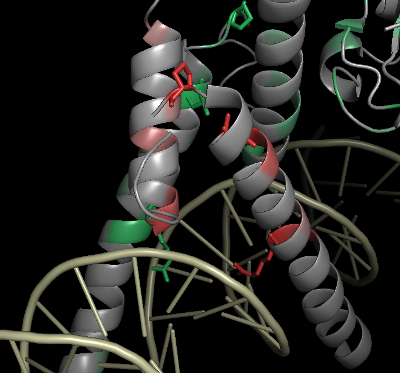
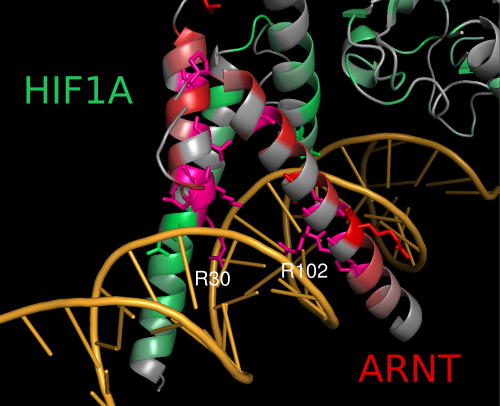
output script instead of recoding

diff --git a/pdb_site_identity.py b/pdb_site_identity.py
@@ -2,7 +2,7 @@
 #
 # pdb_site_identity.py v1 2017-07-25
 
-'''pdb_site_identity.py  last modified 2018-04-02
+'''pdb_site_identity.py  last modified 2018-09-12
 
 pdb_site_identity.py -a mox_all.aln -s DOPO_HUMAN -p 4zel.pdb > 4zel_w_scores.pdb
 
@@ -28,7 +28,7 @@ disordered or cleaved, the sequence still must start with residue 1
 import sys
 import time
 import argparse
-from collections import Counter
+from collections import Counter,defaultdict
 from numpy import log
 from Bio import AlignIO
 
@@ -134,6 +134,25 @@ def get_alignment_identity(alignmentlist, alignformat, targetidlist, gapcutoff):
 		identindex_dict[target_seqid] = index_to_identity
 	return identindex_dict
 
+def get_chains_only(defaultchain, seqidlist, pdbfile):
+	'''read PDB file and return a dict where key is chain and value is sequence ID'''
+	keepchains = {} # dict where key is chain and value is seqid
+	print >> sys.stderr, "# Reading chain from PDB {}".format(pdbfile)
+	for line in open(pdbfile,'r'):
+		record = line[0:6].strip()
+		# get relevant chains that match the sequence, in case of hetero multimers
+		if record=="DBREF":
+			defaultchain = False
+			proteinid = line[42:56].strip()
+			for seqid in seqidlist:
+				if seqid.find(proteinid)>-1:
+					chaintarget = line[12]
+					print >> sys.stderr, "### keeping chain {} for sequence {}".format( chaintarget, proteinid )
+					keepchains[chaintarget] = proteinid
+	if defaultchain: # meaning nothing was found, use default and single sequence
+		keepchains[defaultchain] = seqidlist[0]
+	return keepchains
+
 def rewrite_pdb(pdbfile, seqidlist, scoredict, wayout, forcerecode):
 	print >> sys.stderr, "# Reading PDB from {}".format(pdbfile)
 	atomcounter = 0
@@ -196,6 +215,64 @@ def rewrite_pdb(pdbfile, seqidlist, scoredict, wayout, forcerecode):
 	else:
 		print >> sys.stderr, "# NO CHAINS FOUND MATCHING SEQ ID {}, CHECK NAME {}".format( seqid, proteinid )
 
+def make_output_script(scoredict, keepchains, colorscript, basecolor="red"):
+	'''from the identity calculations, print a script for PyMOL'''
+	colors = {} # key is colorscheme name, value is list of colors
+	colors["red"] = [ [0.63,0.63,0.63] , [0.73,0.55,0.55] , [0.75,0.47,0.47], 
+				   [0.77,0.38,0.38] , [0.79,0.29,0.29] , [0.82,0.21,0.21], 
+				   [0.84,0.13,0.13]    , [0.88,0,0]     , [1,0,0.55] ]
+	colors["green"] = [ [0.63,0.63,0.63] , [0.50,0.68,0.56] , [0.42,0.71,0.53], 
+				   [0.35,0.74,0.49] , [0.26,0.77,0.44] , [0.19,0.80,0.41], 
+				   [0.12,0.83,0.37] , [0.01,0.87,0.31] , [1,0,0.55] ]
+	colors["blue"] = [ [0.63,0.63,0.63] , [0.50,0.58,0.68] , [0.42,0.55,0.71], 
+				   [0.35,0.52,0.73] , [0.28,0.49,0.76] , [0.20,0.46,0.80], 
+				   [0.12,0.43,0.83] , [0.00,0.38,0.87] , [1,0,0.55] ]
+	colors["yellow"] = [ [0.63,0.63,0.63] , [0.66,0.67,0.51] , [0.68,0.71,0.43], 
+				   [0.70,0.73,0.36] , [0.72,0.76,0.28] , [0.74,0.80,0.20], 
+				   [0.76,0.83,0.12] , [0.79,0.87,0.00] , [1,0,0.55] ]
+	insuf_color = [0.75, 0.75, 0.58]
+
+	binvalues = [0.0, 50.0 ,60.0 ,70.0 ,80.0 ,90.0 ,95.0 ,98.0 ,100, 101]
+
+	print >> sys.stderr, "# Generating PyMOL script {}".format(colorscript)
+	# begin printing commands for PyMOL script
+	with open(colorscript, 'w') as cs:
+		print >> cs, "hide everything"
+		#print >> wayout, "bg white"
+		print >> cs, "show cartoon"
+		print >> cs, "set_color colordefault, [{}]".format( ",".join(map(str,insuf_color)) )
+		print >> cs, "color colordefault, all"
+		# make commands for each color
+		for color, colorlist in colors.iteritems():
+			for i,rgb in enumerate(colorlist):
+				colorname = "{}{}".format( color, int(binvalues[i]) )
+				print >> cs, "set_color {}, [{}]".format( colorname, ",".join(map(str,rgb)) )
+
+		# make commands for each chain
+		for chain in keepchains.iterkeys(): # keys are chain letters, values are seq IDs
+			pctgroups = defaultdict(list) # key is percent group, value is list of residues
+			# for each residue, assign to a bin
+			for residue in scoredict[keepchains[chain]].iterkeys():
+				residuescore = scoredict[keepchains[chain]].get(residue,0.00)
+				for i,value in enumerate(binvalues[:-1]):
+					upper = binvalues[i+1]
+					if residuescore < upper:
+						pctgroups[value].append(residue)
+						break
+				# should not need an else
+			# assign whole chain to lowest color, then build up
+			print >> cs, "color {}0, chain {}".format( basecolor, chain )
+			# for each bin, make a command to color all residues of that bin
+			for i,value in enumerate(binvalues[:-1]):
+				if i==0: # long lists apparently crash the program, so skip
+					continue
+				binname = "{}pct_grp_{}_{}".format( int(value), i+1, chain )
+				resilist = map(str,pctgroups[value])
+				binresidues = ",".join(resilist)
+				print >> cs, "select {}, (chain {} & resi {})".format( binname, chain, binresidues )
+				print >> cs, "color {}{}, {}".format( basecolor, int(value), binname )
+	# no return
+
 def main(argv, wayout):
 	if not len(argv):
 		argv.append('-h')
@@ -206,6 +283,9 @@ def main(argv, wayout):
 	parser.add_argument("-g","--gap-cutoff", default=0.5, type=float, help="minimum fraction of non-gap characters per site, else is called unconserved [0.5]")
 	parser.add_argument("-p","--pdb", help="PDB format file", required=True)
 	parser.add_argument("-s","--sequence", nargs="*", help="sequence ID for PDB", required=True)
+	parser.add_argument("-w","--write-script", help="write to script instead of recoding PDB file")
+	parser.add_argument("--base-color", default="red", help="default color gradient [red,yellow,green,blue]")
+	parser.add_argument("--default-chain", default="A", help="default letter of chain, if DBREF for the sequence cannot be found in PDB [A]")
 	parser.add_argument("--force-recode", action="store_true", help="force recoding regardless of chain")
 	args = parser.parse_args(argv)
 
@@ -220,7 +300,11 @@ def main(argv, wayout):
 	else:
 		conservedict = get_alignment_identity( args.alignment, args.format, args.sequence, args.gap_cutoff)
 	if conservedict: # indicating that the sequence was found and something was calculated
-		rewrite_pdb(args.pdb, args.sequence, conservedict, wayout, args.force_recode)
+		if args.write_script: # write output PyMOL script with color commands
+			refchains = get_chains_only(args.default_chain, args.sequence, args.pdb)
+			make_output_script(conservedict, refchains, args.write_script, args.base_color)
+		else: # recode PDB beta-factors
+			rewrite_pdb(args.pdb, args.sequence, conservedict, wayout, args.force_recode)
 	else:
 		sys.exit("# CANNOT CALCULATE CONSERVATION, EXITING")
 

diff --git a/README.md b/README.md
@@ -77,9 +77,18 @@ In the PyMOL console, run `color_by_identity.py` script. Then, up to 4 different
 
 `color_by_identity(bychain=True)`
 
-Here the two proteins ARNT and HIF1a are colored red and green, respectively. Two conserved arginines (R102 and R30) are found interacting with the DNA helix, and two conserved leucines (L112 and L40) point to each other, possibly needed for the dimerization.
+Here the two proteins ARNT and HIF1a are colored red and green, respectively. Two conserved arginines (R102 and R30) are found interacting with the DNA helix, and two conserved leucines (L112 and L40) point to each other, possibly needed for the dimerization. There are more conserved residues in the HLH domain for ARNT than for HIF (8 vs 1), suggesting that despite the varied binding partners for ARNT/CYCLE/BMAL, including HIF, SIM, NPAS1/3, CLOCK, and AHR, it is likely that several of the bases that determine the binding motif are conserved across the ARNT-interacting region, and that the varied roles of these transcription factors are determined more by interactions with HIF and related proteins.
 
 ![4zpr_w_id.png](https://github.com/wrf/pdbcolor/blob/master/examples/4zpr_w_id.png)
+
+### Making a script instead of recoding the PDB ###
+Instead of directly recoding the PDB file, a PyMOL script can be generated to recolor the residues using the `-w` option.
+
+`../pdb_site_identity.py -p 4zpr.pdb -s HIF1A_MOUSE ARNT_MOUSE -a hif_sim_npas.aln arnt_only.aln -w 4zpr_hif_arnt_color_by_id.pml`
+
+This script would be run in the PyMOL console using:
+
+`@4zpr_hif_arnt_color_by_id.pml`
 
 ## Gene structure ##
 For multidomain proteins, it may be useful to view the protein structure with information from the gene structure, i.e. introns and exons. This may display whether a domain is composed of a single exon and how it may join with other parts of the protein. **Note: this assumes that the annotation in the GFF file is complete and accurate, as the first codon in the CDS is assumed to be residue 1.**
